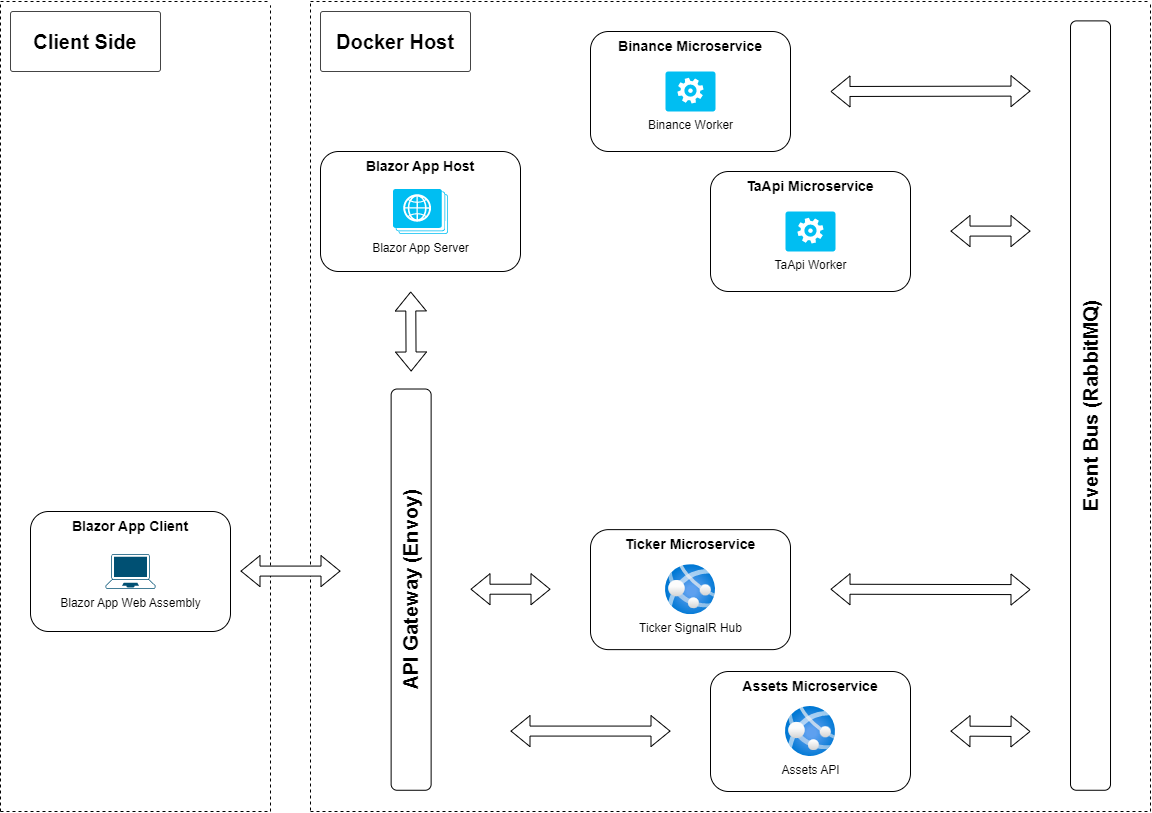
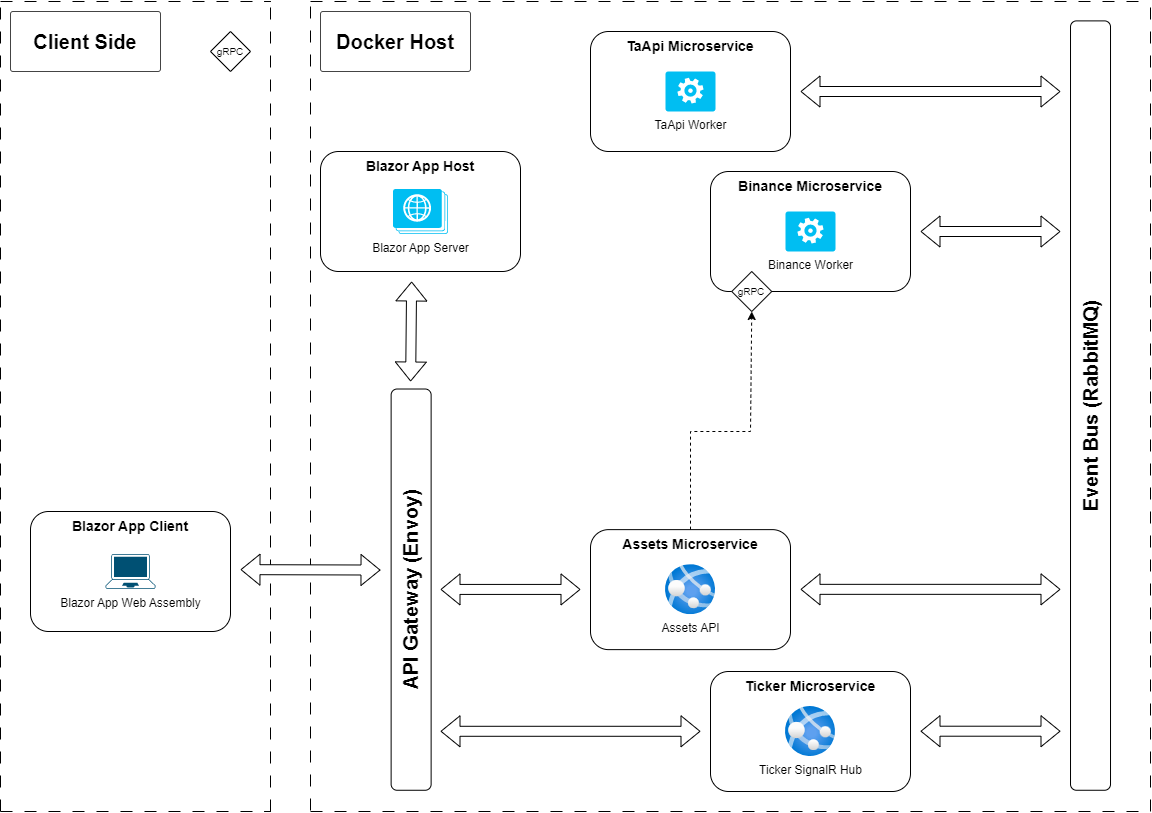
migrate to Microservices architecture

diff --git a/src/Services/Assets/Assets.API/Program.cs b/src/Services/Assets/Assets.API/Program.cs
@@ -1,4 +1,5 @@
 using Assets.API.Abstraction;
+using Assets.API.Extensions;
 using Assets.API.IntegrationEventHandlers;
 using Assets.API.Services;
 using EventBus.Abstraction;
@@ -14,9 +15,6 @@ builder.Services.AddServiceDefaults(builder.Configuration);
 
 builder.Services.AddSignalR();
 
-builder.Services.AddSingleton<IIntegrationEventHandler<AssetPriceTickerIntegrationEvent>, AssetPriceTickerIntegrationEventHandler>();
-builder.Services.AddSingleton<IIntegrationEventHandler<IndicatorEmaCrossIntegrationEvent>, IndicatorEmaCrossIntegrationEventHandler>();
-
 builder.Services.AddCors(options =>
 {
     options.AddPolicy(name: corsPolicyName,
@@ -29,9 +27,13 @@ builder.Services.AddCors(options =>
 });
 
 builder.Services.AddControllers();
-// Learn more about configuring Swagger/OpenAPI at https://aka.ms/aspnetcore/swashbuckle
 builder.Services.AddEndpointsApiExplorer();
 builder.Services.AddSwaggerGen();
+
+builder.Services.AddGrpcServices(builder.Configuration);
+
+builder.Services.AddSingleton<IIntegrationEventHandler<AssetPriceTickerIntegrationEvent>, AssetPriceTickerIntegrationEventHandler>();
+builder.Services.AddSingleton<IIntegrationEventHandler<IndicatorEmaCrossIntegrationEvent>, IndicatorEmaCrossIntegrationEventHandler>();
 
 builder.Services.AddSingleton<ICacheService, CacheService>();
 

diff --git a/src/Services/Assets/Assets.API/Infrastructure/GrpcExceptionInterceptor.cs b/src/Services/Assets/Assets.API/Infrastructure/GrpcExceptionInterceptor.cs
@@ -1,0 +1,39 @@
+using Grpc.Core;
+using Grpc.Core.Interceptors;
+
+namespace Assets.API.Infrastructure
+{
+    public class GrpcExceptionInterceptor : Interceptor
+    {
+        private readonly ILogger<GrpcExceptionInterceptor> _logger;
+
+        public GrpcExceptionInterceptor(ILogger<GrpcExceptionInterceptor> logger)
+        {
+            _logger = logger;
+        }
+
+        public override AsyncUnaryCall<TResponse> AsyncUnaryCall<TRequest, TResponse>(
+            TRequest request,
+            ClientInterceptorContext<TRequest, TResponse> context,
+            AsyncUnaryCallContinuation<TRequest, TResponse> continuation)
+        {
+            var call = continuation(request, context);
+
+            return new AsyncUnaryCall<TResponse>(HandleResponse(call.ResponseAsync), call.ResponseHeadersAsync, call.GetStatus, call.GetTrailers, call.Dispose);
+        }
+
+        private async Task<TResponse> HandleResponse<TResponse>(Task<TResponse> task)
+        {
+            try
+            {
+                var response = await task;
+                return response;
+            }
+            catch (RpcException e)
+            {
+                _logger.LogError(e, "Error calling via gRPC: {Status}", e.Status);
+                return default;
+            }
+        }
+    }
+}

diff --git a/src/Services/Assets/Assets.API/Extensions/AssetsAPIServicesRegistartion.cs b/src/Services/Assets/Assets.API/Extensions/AssetsAPIServicesRegistartion.cs
@@ -1,0 +1,31 @@
+using Assets.API.Abstraction;
+using Assets.API.Configuration;
+using Assets.API.Infrastructure;
+using Assets.API.Services;
+using Microsoft.Extensions.Configuration;
+using Microsoft.Extensions.Options;
+
+namespace Assets.API.Extensions
+{
+    public static class AssetsAPIServicesRegistartion
+    {
+        public static IServiceCollection AddGrpcServices(this IServiceCollection services, IConfiguration configuration)
+        {
+            services.AddTransient<GrpcExceptionInterceptor>();
+
+            services.Configure<AssetsAPIOptions>(configuration.GetSection(nameof(AssetsAPIOptions)));
+
+            services.AddScoped<IBinanceWorkerAPIService, BinanceWorkerAPIService>();
+
+            services.AddGrpcClient<BinanceWorkerAPI.BinanceWorker.BinanceWorkerClient>(
+                (services, options) =>
+                {
+                    var url = services.GetRequiredService<IOptions<AssetsAPIOptions>>().Value.BinanceWorkerApiGrpc;
+                    options.Address = new Uri(url);
+                })
+                .AddInterceptor<GrpcExceptionInterceptor>();
+
+            return services;
+        }
+    }
+}

diff --git a/src/Services/Assets/Assets.API/Controllers/AssetsController.cs b/src/Services/Assets/Assets.API/Controllers/AssetsController.cs
@@ -9,10 +9,12 @@ namespace Assets.API.Controllers
     public class AssetsController : ControllerBase
     {
         private readonly ICacheService _cacheService;
+        private readonly IBinanceWorkerAPIService _binanceWorkerAPIService;
 
-        public AssetsController(ICacheService cacheService)
+        public AssetsController(ICacheService cacheService, IBinanceWorkerAPIService binanceWorkerAPIService)
         {
             _cacheService = cacheService;
+            _binanceWorkerAPIService = binanceWorkerAPIService;
         }
 
         [HttpGet("get-asset-price")]
@@ -44,6 +46,14 @@ namespace Assets.API.Controllers
                 dtos.Add(EmaCrossDTO.FromEntity(entity));
 
             return Ok(dtos);
+        }
+
+        [HttpGet("get-test")]
+        public async Task<ActionResult<IEnumerable<string>>> GetTest()
+        {
+            var result = await _binanceWorkerAPIService.GetBinanceAssets();
+
+            return Ok(result);
         }
     }
 }

diff --git a/src/Services/Binance/Binance.Worker/Grpc/BinanceWorkerAPIService.cs b/src/Services/Binance/Binance.Worker/Grpc/BinanceWorkerAPIService.cs
@@ -1,0 +1,28 @@
+using Binance.Domain.Services;
+using BinanceWorkerAPI;
+using Grpc.Core;
+
+namespace Binance.Worker.Grpc
+{
+    public class BinanceWorkerAPIService : BinanceWorkerAPI.BinanceWorker.BinanceWorkerBase
+    {
+        private readonly IBinancePriceTickerService _binancePriceTickerService;
+
+        public BinanceWorkerAPIService(IBinancePriceTickerService binancePriceTickerService)
+        {
+            _binancePriceTickerService = binancePriceTickerService;
+        }
+
+        public override async Task<BinanceAssetsResponse> GetBinanceAssets(BinanceAssetsRequest request, ServerCallContext context)
+        {
+            var assets = await _binancePriceTickerService.GetAllSupportedCryptoAssets();
+
+            var result = new BinanceAssetsResponse();
+
+            if (assets != null && assets.Any())
+                result.AssetBase.AddRange(assets.Select(v => v.ToString()));
+
+            return result;
+        }
+    }
+}

diff --git a/src/Services/Assets/Assets.API/Services/BinanceWorkerAPIService.cs b/src/Services/Assets/Assets.API/Services/BinanceWorkerAPIService.cs
@@ -1,0 +1,21 @@
+using Assets.API.Abstraction;
+
+namespace Assets.API.Services
+{
+    public class BinanceWorkerAPIService : IBinanceWorkerAPIService
+    {
+        private BinanceWorkerAPI.BinanceWorker.BinanceWorkerClient _client;
+
+        public BinanceWorkerAPIService(BinanceWorkerAPI.BinanceWorker.BinanceWorkerClient client)
+        {
+            _client = client;
+        }
+
+        public async Task<IEnumerable<string>> GetBinanceAssets()
+        {
+            var response = await _client.GetBinanceAssetsAsync(new BinanceWorkerAPI.BinanceAssetsRequest());
+
+            return response.AssetBase;
+        }
+    }
+}

diff --git a/src/Services/Binance/Binance.Worker/Program.cs b/src/Services/Binance/Binance.Worker/Program.cs
@@ -1,15 +1,20 @@
 using Binance.Worker;
 using Binance.Infrastructure.Extensions;
 using Services.Common.Extensions;
+using Binance.Worker.Grpc;
 
 var builder = WebApplication.CreateBuilder(args);
 
 builder.Services.AddServiceDefaults(builder.Configuration);
+
+builder.Services.AddGrpc();
 
 builder.Services.AddBinanceServices(builder.Configuration);
 
 builder.Services.AddHostedService<Worker>();
 
 var app = builder.Build();
+
+app.MapGrpcService<BinanceWorkerAPIService>();
 
 app.Run();

diff --git a/src/Services/Assets/Assets.API/Configuration/AssetsAPIOptions.cs b/src/Services/Assets/Assets.API/Configuration/AssetsAPIOptions.cs
@@ -1,0 +1,7 @@
+namespace Assets.API.Configuration
+{
+    public class AssetsAPIOptions
+    {
+        public string BinanceWorkerApiGrpc { get; set; } = string.Empty;
+    }
+}

diff --git a/src/Services/Assets/Assets.API/Abstraction/IBinanceWorkerAPIService.cs b/src/Services/Assets/Assets.API/Abstraction/IBinanceWorkerAPIService.cs
@@ -1,0 +1,7 @@
+namespace Assets.API.Abstraction
+{
+    public interface IBinanceWorkerAPIService
+    {
+        Task<IEnumerable<string>> GetBinanceAssets();
+    }
+}
